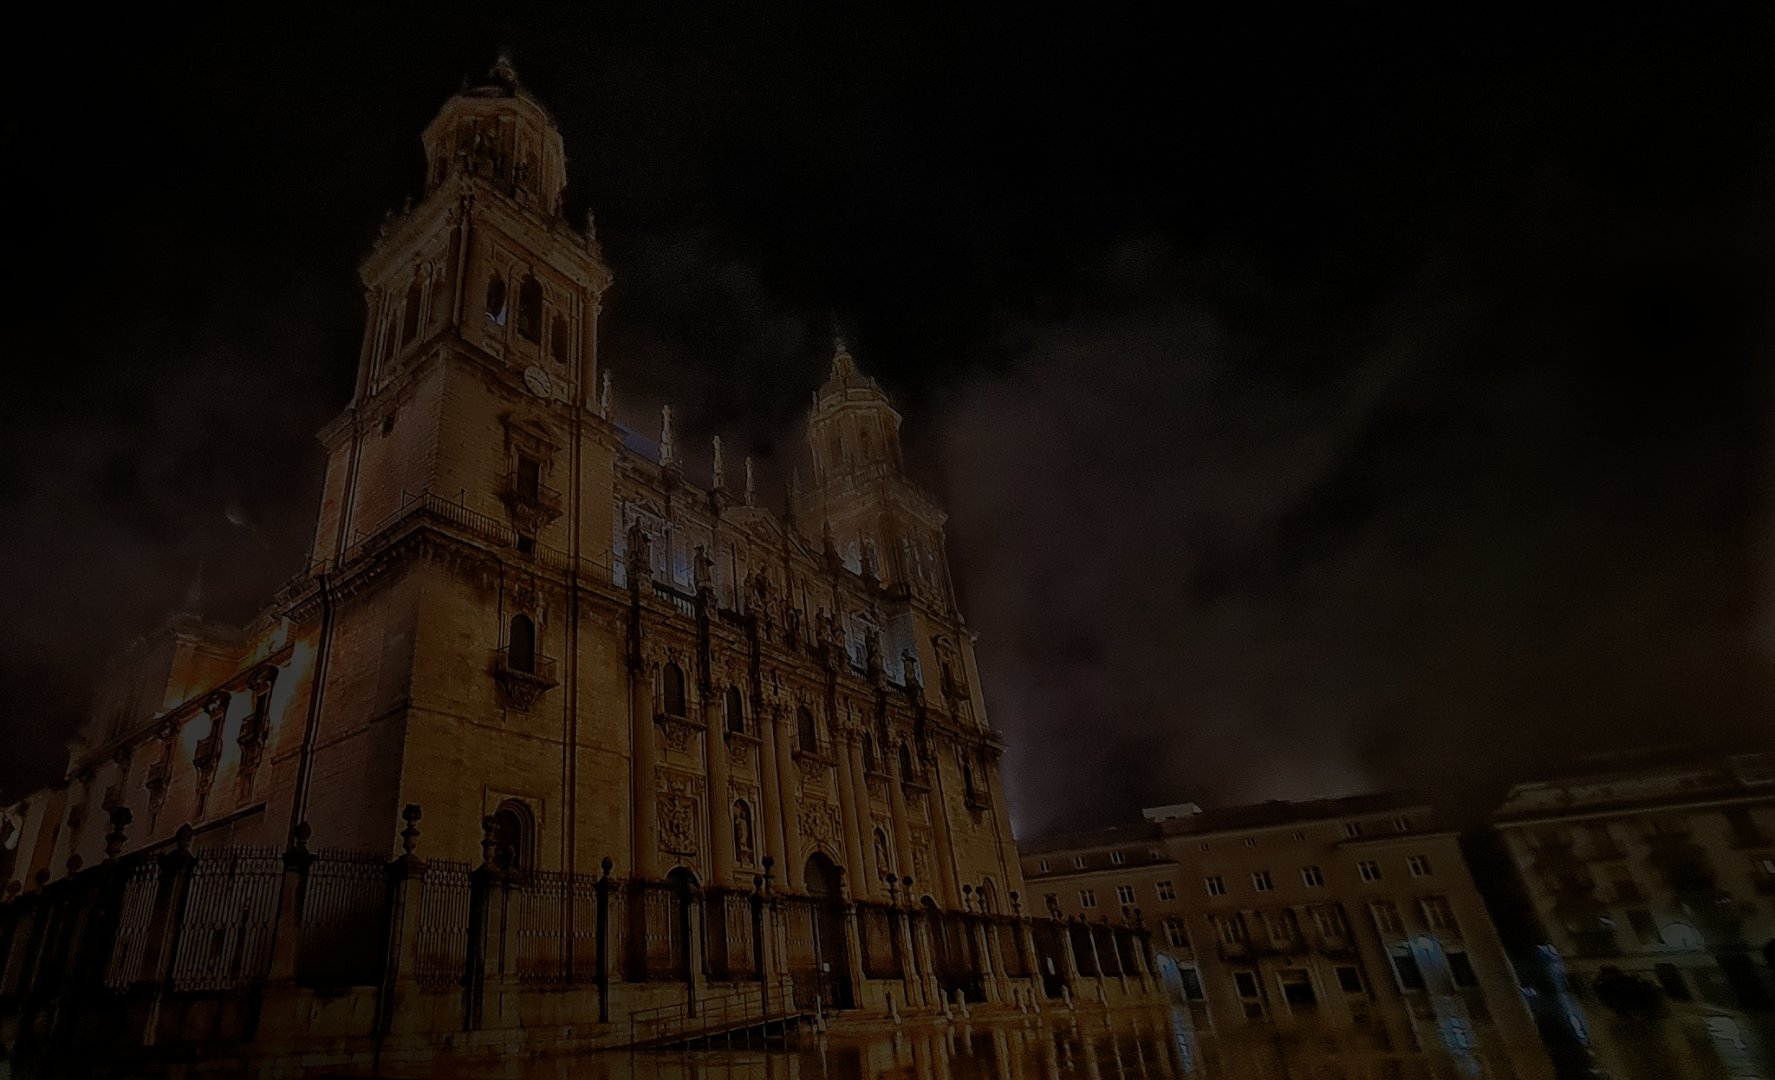
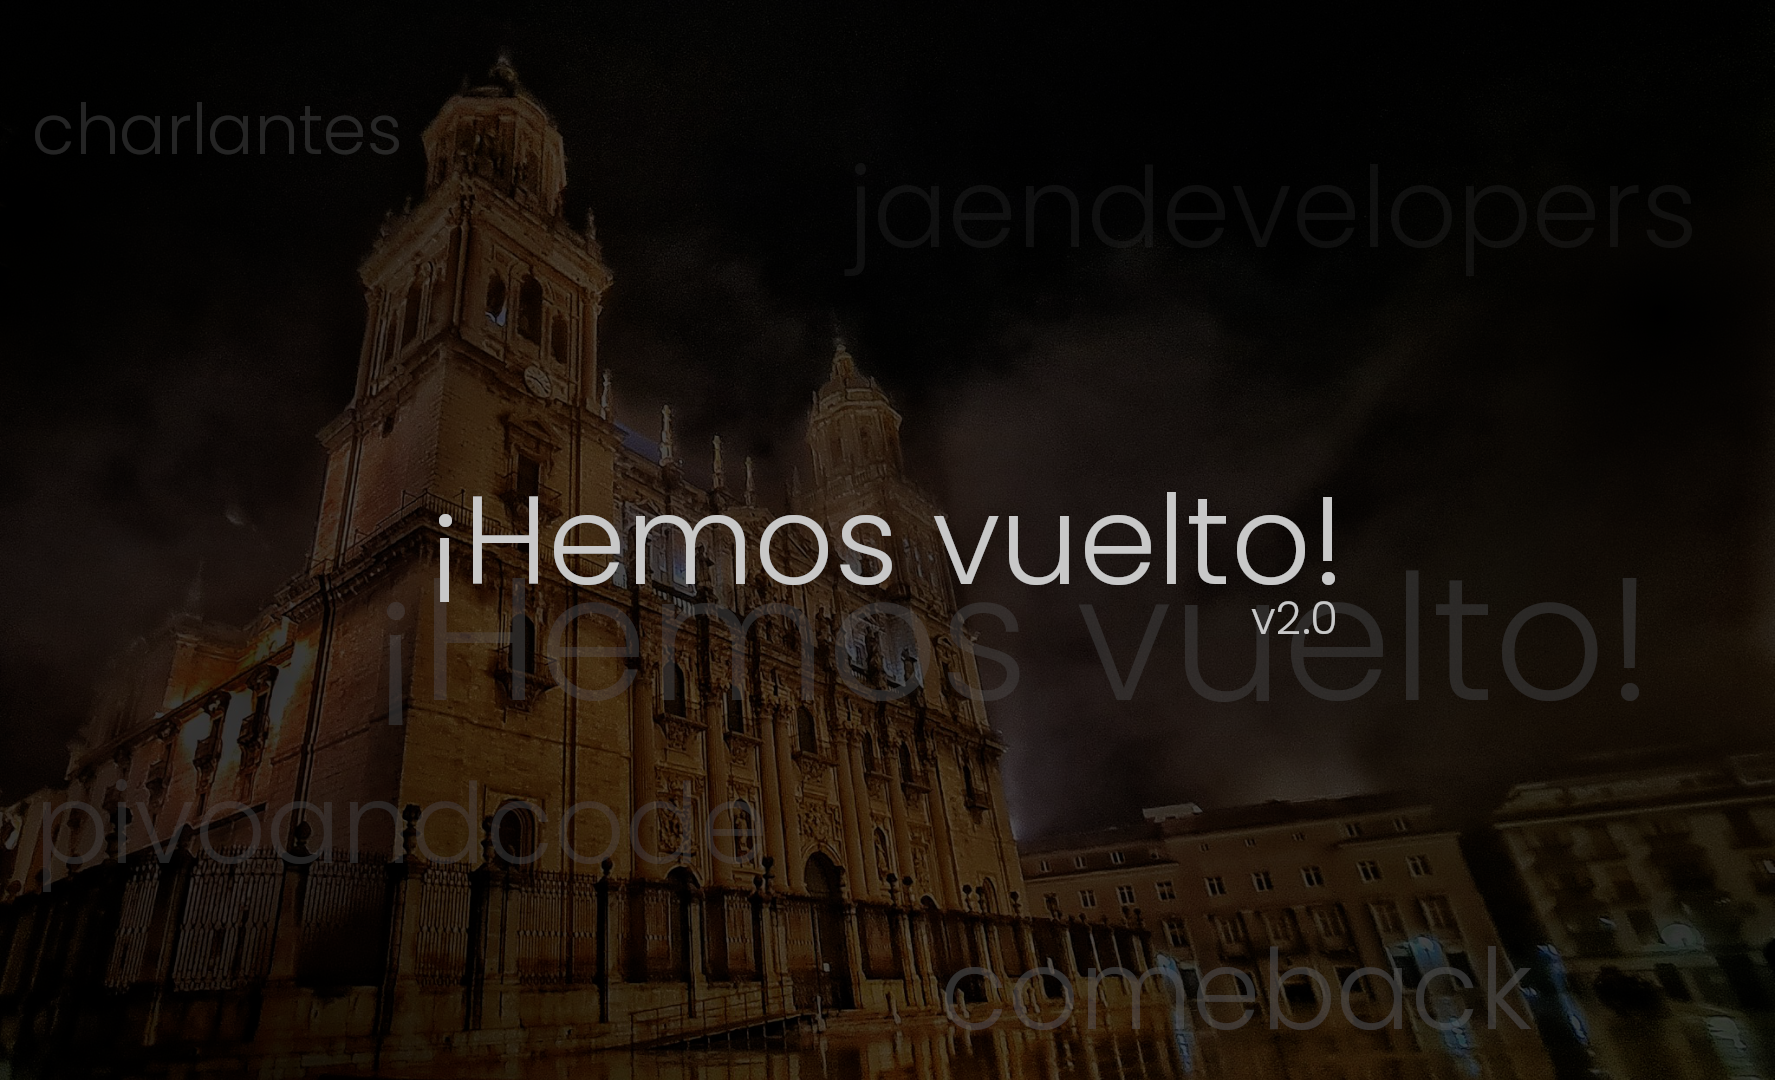
rewrite howweare and new brand

diff --git a/components/Whoweare/index.js b/components/Whoweare/index.js
@@ -3,20 +3,19 @@ export default function WhoWeAre() {
     <>
       <p>
         <strong>XauenDevs</strong> nace en 2017 con el nombre de JaénDevelopers,
-        una comunidad de{' '}
+        comunidad de{' '}
         <strong>desarrolladores de software en la provincia de Jaén</strong>. El
         objetivo principal de <strong>XauenDevs</strong> es difundir
         conocimiento sobre desarrollo y tecnología en general. Y para ello
-        organiza charlas mensuales de diferentes temas y de profesionles de
-        distintos campos pero siempre relacionados con las tecnología.
+        organiza charlas mensuales de diferentes temas y profesionales de
+        distintos campos, siempre relacionados con la tecnología.
       </p>
       <p>
-        Estas charlas, denominadas <strong>Pivo&Code</strong>, aparte de tratar
-        distintos temas uno de los puntos más atractivos son los{' '}
-        <strong>networking</strong>, donde estudiantes/docentes/profesionales
-        del sector pueden compartir conocimientos y experiencias. Además de la
-        sinergía que se crea entre los asistentes, se crean oportunidades
-        laborales.
+        En estas charlas, denominadas <strong>Pivo&Code</strong>, uno de los
+        puntos más atractivos son los <strong>networking</strong>, donde
+        estudiantes/docentes/profesionales del sector pueden compartir
+        conocimientos y experiencias. Además de la sinergía que se crea entre
+        los asistentes, surgen oportunidades laborales.
       </p>
 
       <style jsx>{``}</style>

diff --git a/posts/nueva-temporada.md b/posts/nueva-temporada.md
@@ -10,72 +10,22 @@ tags:
   - general
 ---
 
-## Probando pintar codigo en los posts
+## Hola de nuevo! 👋🏻
 
-### Javascript
+Pues después de taaaaanto tiempo... nos encanta escribir estas lineas y es que...
 
-```javascript
-import marked from 'marked'
+#### **¡¡JaénDevelopers vuelve!!**
 
-marked.setOptions({
-  langPrefix: 'hljs language-',
-  highlight: function (code) {
-    return require('highlight.js').highlightAuto(code, ['html', 'javascript'])
-      .value
-  }
-})
-```
+Vuelve con un cambio de imagen, nuevo nombre y nueva web pero con las mismas ganas o más que antes después de este periodo de inactividad.
 
-### Kotlin
+A partir de ahora esta comunidad se denominará **XauenDevs**, haciendo una referencia al nombre de la ciudad en la época musulmana.
 
-```kotlin
-import kotlinx.serialization.Serializable
-import kotlin.random.Random
+En esta nueva etapa queremos aplicar una serie de cambios, que creemos, nos ayudarán a crecer como comunidad en toda la **provincia de Jaén**.
 
-interface Building
+### ¿Qué necesitamos?
 
-@Serializable
-class House(
-    private val rooms: Int? = 3,
-    val name: String = "Palace"
-) : Building {
-    var residents: Int = 4
-        get() {
-            println("Current residents: $field")
-            return field
-        }
+Es simple, necesitamos TÚ ayuda, asistiendo a las charlas, que retomaremos en septiembre, participando en nuestro servidor de discord, cualquier cosa que se te ocurra... ¡para nosotros es de gran ayuda!
 
-    fun burn(evacuation: (people: Int) -> Boolean) {
-        rooms ?: return
-        if (evacuation((0..residents).random()))
-            residents = 0
-    }
-}
+También podrás participar agregando secciones/funcionalidades a esta web, ya que tenemos el repositorio público y cualquiera puede crear una Pull Request añadiendo contenido a la web.
 
-fun main() {
-    val house = House(name = "Skyscraper 1")
-    house.burn {
-        Random.nextBoolean()
-    }
-}
-```
-
-### Swift
-
-```swift
-import Foundation
-
-@objc class Person: Entity {
-  var name: String!
-  var age:  Int!
-
-  init(name: String, age: Int) {
-    /* /* ... */ */
-  }
-
-  // Return a descriptive string for this person
-  func description(offset: Int = 0) -> String {
-    return "\(name) is \(age + offset) years old"
-  }
-}
-```
+Nuestro blog será también abierto para cualquier persona/empresa que quiera publicar algún post, sea del tema que sea, siempre y cuando esté relacionado con la tecnología y la provincia de Jaén.
